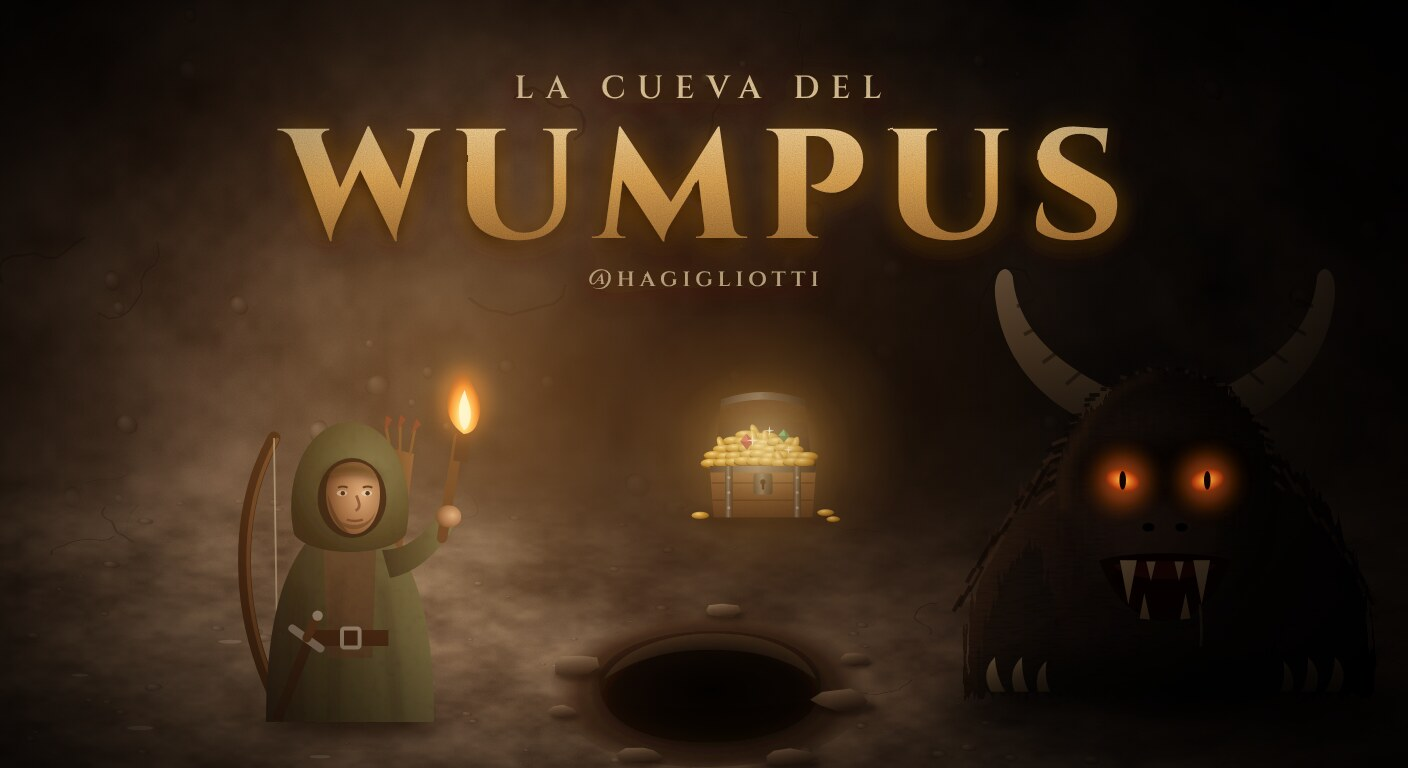
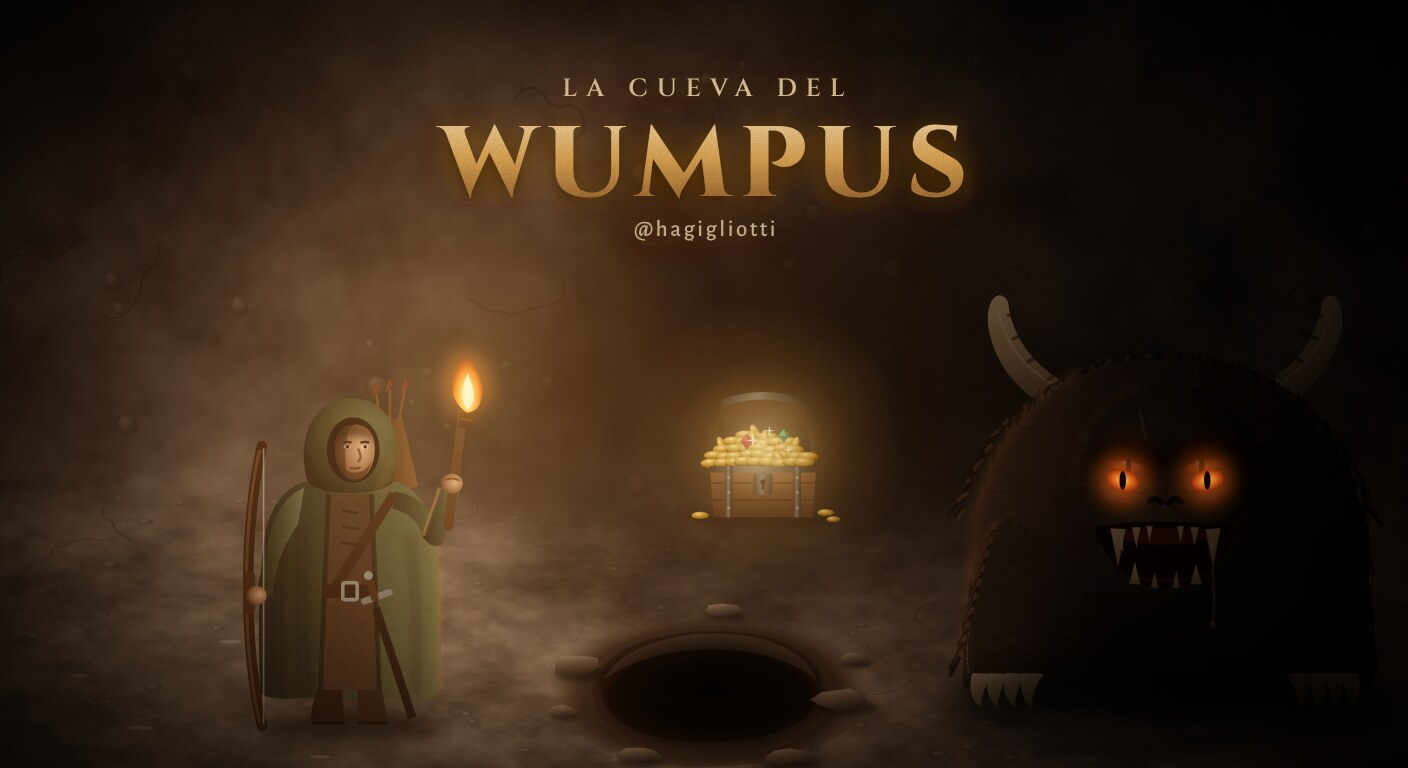
Wumpus: cazador y monstruo más realistas; título de la portada entra en el recorte
Claude-Session: https://claude.ai/code/session_019ZNvwWAP4hdR2rAgD4VUNg

diff --git a/Projects/Wumpus/index.html b/Projects/Wumpus/index.html
@@ -255,7 +255,7 @@ const ART_DEFS = `<svg id="artDefs" width="0" height="0" style="position:absolut
 <filter id="fTex" x="-5%" y="-5%" width="110%" height="110%"><feTurbulence type="fractalNoise" baseFrequency=".5" numOctaves="3" seed="4" result="n"/><feColorMatrix in="n" type="matrix" values=".33 .33 .33 0 0 .33 .33 .33 0 0 .33 .33 .33 0 0 0 0 0 0 1" result="g"/><feComponentTransfer in="g" result="g2"><feFuncR type="linear" slope=".8" intercept=".62"/><feFuncG type="linear" slope=".8" intercept=".62"/><feFuncB type="linear" slope=".8" intercept=".62"/></feComponentTransfer><feComposite in="SourceGraphic" in2="g2" operator="arithmetic" k1="1" k2="0" k3="0" k4="0"/></filter>
 <filter id="fFur" x="-10%" y="-10%" width="120%" height="120%"><feTurbulence type="turbulence" baseFrequency=".7 .09" numOctaves="2" seed="7" result="t"/><feDisplacementMap in="SourceGraphic" in2="t" scale="4" xChannelSelector="R" yChannelSelector="G" result="d"/><feTurbulence type="fractalNoise" baseFrequency=".3 1.7" numOctaves="2" seed="2" result="n"/><feColorMatrix in="n" type="matrix" values=".33 .33 .33 0 0 .33 .33 .33 0 0 .33 .33 .33 0 0 0 0 0 0 1" result="g"/><feComponentTransfer in="g" result="g2"><feFuncR type="linear" slope="1.2" intercept=".3"/><feFuncG type="linear" slope="1.2" intercept=".3"/><feFuncB type="linear" slope="1.2" intercept=".3"/></feComponentTransfer><feComposite in="d" in2="g2" operator="arithmetic" k1="1" k2="0" k3="0" k4="0"/></filter>
 <filter id="fB1" x="-50%" y="-50%" width="200%" height="200%"><feGaussianBlur stdDeviation="1"/></filter>
-<filter id="fB2" x="-50%" y="-50%" width="200%" height="200%"><feGaussianBlur stdDeviation="2.2"/></filter>
+<filter id="fB2" x="-100%" y="-100%" width="300%" height="300%"><feGaussianBlur stdDeviation="2.2"/></filter>
 <filter id="fB4" x="-60%" y="-60%" width="220%" height="220%"><feGaussianBlur stdDeviation="4.5"/></filter>
 <radialGradient id="gPitRim" cx=".5" cy=".55" r=".5"><stop offset="0" stop-color="#000"/><stop offset=".6" stop-color="#0a0705"/><stop offset=".82" stop-color="#241b14" stop-opacity=".85"/><stop offset="1" stop-color="#3a2e24" stop-opacity="0"/></radialGradient>
 <radialGradient id="gPitHole" cx=".5" cy=".62" r=".55"><stop offset="0" stop-color="#000"/><stop offset=".78" stop-color="#020101"/><stop offset="1" stop-color="#120c08"/></radialGradient>
@@ -355,22 +355,25 @@ function coinHeap(){
 }
 function furStrands(){
   const r = artRand(5); let s = '';
-  for(let i=0; i<64; i++){
-    const a = Math.PI*(1.02 + i/64*.96) + (r()-.5)*.05;
-    const ex = 50 + Math.cos(a)*23.5, ey = 53 + Math.sin(a)*27.5;
-    const len = 2.5 + r()*4, dx = Math.cos(a)*len*.6 + (r()-.5)*1.5, dy = Math.sin(a)*len*.6 + len*.5;
-    s += '<path d="M'+ex.toFixed(1)+' '+ey.toFixed(1)+' q'+(dx*.5).toFixed(1)+' '+(dy*.3).toFixed(1)+' '+dx.toFixed(1)+' '+dy.toFixed(1)+'" stroke="'+(i%3 ? '#140e0a' : '#6a503e')+'" stroke-width=".8" fill="none" opacity=".75"/>';
+  // lomo y hombros
+  for(let i=0; i<90; i++){
+    const t = i/89, a = Math.PI*(1.06 + t*.88);
+    const ex = 50 + Math.cos(a)*43.5, ey = 63 + Math.sin(a)*41;
+    const len = 2.5 + r()*4.5, dx = Math.cos(a)*len*.5 + (r()-.5)*1.6, dy = Math.sin(a)*len*.4 + len*.6;
+    s += '<path d="M'+ex.toFixed(1)+' '+ey.toFixed(1)+' q'+(dx*.5).toFixed(1)+' '+(dy*.3).toFixed(1)+' '+dx.toFixed(1)+' '+dy.toFixed(1)+'" stroke="'+(i%3 ? '#120c09' : (t<.5 ? '#5a4232' : '#2e2219'))+'" stroke-width=".8" fill="none" opacity=".8"/>';
   }
-  for(let i=0; i<46; i++){
-    const t = i/46, side = i%2 ? 1 : -1;
-    const ex = 50 + side*(24 + t*20), ey = 44 + t*30 + (r()-.5)*3;
-    const len = 3 + r()*4;
-    s += '<path d="M'+ex.toFixed(1)+' '+ey.toFixed(1)+' l'+(side*len*.5).toFixed(1)+' '+(len*.9).toFixed(1)+'" stroke="'+(i%3 ? '#120c09' : '#5a4434')+'" stroke-width=".9" opacity=".7"/>';
+  // brazos
+  for(let i=0; i<40; i++){
+    const side = i%2 ? 1 : -1, t = Math.floor(i/2)/20;
+    const ex = 50 + side*(36 + t*8) , ey = 58 + t*30;
+    const len = 3 + r()*3.5;
+    s += '<path d="M'+ex.toFixed(1)+' '+ey.toFixed(1)+' l'+(side*len*.45).toFixed(1)+' '+(len*.9).toFixed(1)+'" stroke="'+(i%4 ? '#100a08' : (side<0 ? '#5e4434' : '#241a13'))+'" stroke-width=".85" opacity=".8"/>';
   }
   return s;
 }
 const FUR = furStrands();
 const HEAP = coinHeap();
+
 
 const SVG = {
   wind: '<svg class="fx fx-wind" viewBox="0 0 100 100"><g class="gust" filter="url(#fB2)" fill="none" stroke="#e6e2d8" stroke-linecap="round"><path stroke-width="5" opacity=".2" d="M-14 30 C16 24 40 36 70 28 S100 30 116 26"/><path stroke-width="8" opacity=".15" d="M-14 53 C16 46 46 59 72 50 S104 52 116 48"/><path stroke-width="4" opacity=".22" d="M-14 75 C20 70 44 81 74 72 S100 74 116 70"/></g><g class="dust" fill="#ddd6c8"><circle cx="18" cy="34" r=".8"/><circle cx="30" cy="57" r=".6"/><circle cx="12" cy="70" r=".9"/><circle cx="40" cy="44" r=".5"/><circle cx="24" cy="82" r=".7"/><circle cx="8" cy="48" r=".6"/></g></svg>',
@@ -393,52 +396,87 @@ const SVG = {
 
 function wumpusSVG(dead){
   const eyes = dead
-    ? '<path d="M36 49 q5 2 10 0 M54 49 q5 2 10 0" stroke="#050302" stroke-width="1.4" fill="none" stroke-linecap="round"/>'
-    : '<g class="eyes"><circle cx="41" cy="49" r="7" fill="#ff6a1a" opacity=".35" filter="url(#fB2)"/><circle cx="59" cy="49" r="7" fill="#ff6a1a" opacity=".35" filter="url(#fB2)"/>'
-      + '<ellipse cx="41" cy="49" rx="3.7" ry="2.4" fill="url(#gEye)" transform="rotate(14 41 49)"/><ellipse cx="59" cy="49" rx="3.7" ry="2.4" fill="url(#gEye)" transform="rotate(-14 59 49)"/>'
-      + '<ellipse cx="41" cy="49" rx=".7" ry="2.1" fill="#140402"/><ellipse cx="59" cy="49" rx=".7" ry="2.1" fill="#140402"/><circle cx="40" cy="48.1" r=".55" fill="#fff"/><circle cx="58" cy="48.1" r=".55" fill="#fff"/></g>';
-  const horn = '<path d="M35 37 C27 34 16 26 14 11 C13 5 16 2 17.6 5.6 C18.6 17 27 24 39 30Z" fill="url(#gHorn)"/><path d="M18.5 12 l3.6 -1.4 M20 18 l3.8 -2 M24 24 l3.6 -2.6 M29 28.6 l3 -2.6" stroke="#231b12" stroke-width=".8" opacity=".55"/>';
+    ? '<path d="M37 46.6 q5 2 9.5 .4 M54 47 q4.5 1.6 9.5 -.4" stroke="#050302" stroke-width="1.4" fill="none" stroke-linecap="round"/>'
+    : '<g class="eyes"><circle cx="42" cy="46.5" r="6.5" fill="#ff6a1a" opacity=".4" filter="url(#fB2)"/><circle cx="58" cy="46.5" r="6.5" fill="#ff6a1a" opacity=".4" filter="url(#fB2)"/>'
+      + '<path d="M37.4 45.2 Q42 43.4 46.4 46.6 Q42 49 37.4 45.2Z" fill="url(#gEye)"/><path d="M62.6 45.2 Q58 43.4 53.6 46.6 Q58 49 62.6 45.2Z" fill="url(#gEye)"/>'
+      + '<ellipse cx="42.2" cy="46" rx=".6" ry="1.7" fill="#140402"/><ellipse cx="57.8" cy="46" rx=".6" ry="1.7" fill="#140402"/><circle cx="41.3" cy="45.3" r=".45" fill="#fff"/><circle cx="56.9" cy="45.3" r=".45" fill="#fff"/></g>';
+  const horn = '<path d="M34.5 37 C25 35 15 29 12.5 17 C11.4 11 14.6 7.6 16.6 11 C17.6 21 25.6 28.6 37 31.6Z" fill="url(#gHorn)"/>'
+    + '<path d="M16.4 14 l3.4 -1 M17.4 19 l3.8 -1.6 M20.4 24 l3.8 -2.2 M24.6 28 l3.4 -2.4 M29.4 31.2 l2.8 -2.4" stroke="#231b12" stroke-width=".75" opacity=".6"/>'
+    + '<path d="M14.6 12.4 C15.6 21 22 27 30 30.6" stroke="#f0e6cc" stroke-width=".6" opacity=".35" fill="none"/>';
+  const claws = (x, dir) => [0,1,2,3].map(i => { const cx = x + dir*i*3.6; return '<path d="M'+cx+' 90 q'+(dir*-1.4)+' 4.6 '+(dir*1.8)+' 7.4 q'+(dir*.2)+' -4.2 '+(dir*2.6)+' -7.2z" fill="url(#gFang)"/>'; }).join('');
   return '<svg class="obj wum'+(dead ? ' dead' : '')+'" viewBox="0 0 100 100">'
-    + '<ellipse cx="50" cy="92" rx="40" ry="6" fill="#000" opacity=".65" filter="url(#fB2)"/>'
+    + '<ellipse cx="50" cy="94" rx="44" ry="5" fill="#000" opacity=".7" filter="url(#fB2)"/>'
     + horn + '<g transform="translate(100 0) scale(-1 1)">'+horn+'</g>'
-    + '<g filter="url(#fFur)"><path d="M7 94 C5 72 13 52 28 42 C38 35 62 35 72 42 C87 52 95 72 93 94Z" fill="url(#gFurBody)"/>'
-    + '<path d="M9 94 C9 80 13 68 21 60 C26 70 26 82 28 94Z" fill="#241a13"/><path d="M91 94 C91 80 87 68 79 60 C74 70 74 82 72 94Z" fill="#120d09"/>'
-    + '<path d="M27 57 C25 38 36 25 50 25 C64 25 75 38 73 57 C71 71 61 80 50 80 C39 80 29 71 27 57Z" fill="url(#gFurHead)"/></g>'
+    + '<g filter="url(#fFur)">'
+    + '<path d="M8 72 C5 50 16 30 34 24 C42 21 58 21 66 24 C84 30 95 50 92 72 C92 82 90 91 85 93 L15 93 C10 91 8 82 8 72Z" fill="url(#gFurBody)"/>'
+    + '<path d="M15 56 C8 64 5 78 7 92 L23 92 C22 83 23 73 28 63Z" fill="#2c2018"/>'
+    + '<path d="M85 56 C92 64 95 78 93 92 L77 92 C78 83 77 73 72 63Z" fill="#110c09"/>'
+        + '<ellipse cx="50" cy="82" rx="22" ry="10" fill="#050302" opacity=".55" filter="url(#fB4)"/>'
+    + '<path d="M30 50 C29 36 38 28 50 28 C62 28 71 36 70 50 C69 62 61 72 50 73 C39 72 31 62 30 50Z" fill="url(#gFurHead)"/>'
+    + '</g>'
     + FUR
-    + '<path d="M28.5 56 C27.5 41 36 29 48 26.5" stroke="#c98a4a" stroke-width="1.6" opacity=".35" fill="none" filter="url(#fB1)"/>'
-    + '<ellipse cx="50" cy="47" rx="19" ry="7" fill="#050302" opacity=".7" filter="url(#fB2)"/>'
+    + '<path d="M9 70 C7 52 16 34 32 26" stroke="#d08a48" stroke-width="1.8" opacity=".32" fill="none" filter="url(#fB1)"/><path d="M8 90 C6 78 8 66 14 58" stroke="#d08a48" stroke-width="1.4" opacity=".28" fill="none" filter="url(#fB1)"/><path d="M31 50 C30 39 37 31 46 29" stroke="#d08a48" stroke-width="1.2" opacity=".3" fill="none" filter="url(#fB1)"/>'
+    + '<path d="M34 43 C40 39 46 41 50 44 C54 41 60 39 66 43 C62 45 56 44 50 47 C44 44 38 45 34 43Z" fill="#070403" opacity=".9" filter="url(#fB1)"/>'
+    + '<ellipse cx="50" cy="45" rx="17" ry="6" fill="#050302" opacity=".5" filter="url(#fB2)"/>'
     + eyes
-    + '<ellipse cx="50" cy="61" rx="11" ry="7.5" fill="#4a362a" opacity=".5" filter="url(#fB1)"/><ellipse cx="46.5" cy="59" rx="1.3" ry=".9" fill="#080503"/><ellipse cx="53.5" cy="59" rx="1.3" ry=".9" fill="#080503"/>'
-    + '<path d="M36 66 C42 64 58 64 64 66 C61 75 55 79 50 79 C45 79 39 75 36 66Z" fill="#170605"/><path d="M39 67 C45 66 55 66 61 67 C58 71 42 71 39 67Z" fill="#4a1410" opacity=".8"/>'
-    + '<path d="M40.4 66 L42.2 75.5 L44 66Z M56 66 L57.8 75.5 L59.6 66Z M46 66.3 L47 70.5 L48 66.3Z M52 66.3 L53 70.5 L54 66.3Z M44.6 78.4 L45.6 73 L46.8 78.6Z M53.2 78.6 L54.4 73 L55.4 78.4Z" fill="url(#gFang)"/>'
-    + '<path d="M57.4 75.4 q.6 5 .2 9" stroke="#d8d2c0" stroke-width=".6" opacity=".3" fill="none"/>'
-    + '<path d="M13 94 q-2.4 -4 .8 -7.4 q.2 4 2.2 7.4z M18 94 q-1.6 -4.4 1.6 -7.4 q-.2 4.2 1.4 7.4z M23 94 q-1 -4 1.8 -6.6 q-.6 3.8 .8 6.6z M87 94 q2.4 -4 -.8 -7.4 q-.2 4 -2.2 7.4z M82 94 q1.6 -4.4 -1.6 -7.4 q.2 4.2 -1.4 7.4z M77 94 q1 -4 -1.8 -6.6 q.6 3.8 -.8 6.6z" fill="url(#gFang)"/>'
+    + '<path d="M44.6 34 l1.4 6.6" stroke="#8a6a54" stroke-width=".6" opacity=".55"/>'
+    + '<ellipse cx="50" cy="55" rx="10" ry="6" fill="#55402f" opacity=".45" filter="url(#fB1)"/><path d="M46.6 53.4 q1.4 -1 2.6 .4 M53.4 53.4 q-1.4 -1 -2.6 .4" stroke="#070403" stroke-width="1.2" fill="none" stroke-linecap="round"/><path d="M43 51 q2 1.6 3 0 M57 51 q-2 1.6 -3 0" stroke="#1a120c" stroke-width=".5" fill="none" opacity=".7"/>'
+    + '<path d="M35 59 C41 57.4 59 57.4 65 59 C62.6 67.4 56.4 72 50 72 C43.6 72 37.4 67.4 35 59Z" fill="#160504"/>'
+    + '<path d="M38 60 C44 59 56 59 62 60 C59 63.6 41 63.6 38 60Z" fill="#5a1812" opacity=".85"/><path d="M41 69 C46 71.4 54 71.4 59 69 C55 70 45 70 41 69Z" fill="#4a1410" opacity=".8"/>'
+    + '<path d="M38.4 59.2 L40 67.6 L41.6 59.4Z M43 59 L43.9 63.4 L44.8 59Z M46 58.8 L46.7 62 L47.4 58.8Z M52.6 58.8 L53.3 62.4 L54 58.8Z M55.4 59 L56.3 63 L57.2 59Z M58.6 59.4 L60.2 67.8 L61.8 59.2Z" fill="url(#gFang)"/>'
+    + '<path d="M42.4 71 L43.6 66.4 L44.8 71.2Z M47 71.8 L47.8 68.6 L48.6 71.9Z M51.6 71.9 L52.4 68.4 L53.2 71.8Z M55.4 71.2 L56.6 66.8 L57.8 71Z" fill="url(#gFang)"/>'
+    + '<path d="M40.6 61 l.4 3" stroke="#fff" stroke-width=".35" opacity=".6"/><path d="M59.8 61 l.4 3" stroke="#fff" stroke-width=".35" opacity=".5"/>'
+    + '<path d="M60 67.6 q.8 6 .2 12" stroke="#d8d2c0" stroke-width=".55" opacity=".3" fill="none"/><circle cx="60.2" cy="79.8" r=".7" fill="#d8d2c0" opacity=".3"/>'
+    + claws(9, 1) + claws(91, -1)
     + '</svg>';
 }
 
 function hunterSVG(o){
   const lit = !o.blind;
-  const flame = '<g class="flame"><ellipse cx="78.4" cy="13" rx="6" ry="9" fill="#ff7a1a" opacity=".5" filter="url(#fB2)"/><path d="M78.4 21 C72.6 17 73.4 10 78.4 3 C79.4 9 84.4 12 81.9 18 C81.4 20 79.9 21 78.4 21Z" fill="url(#gFlame)"/><path d="M78.4 20 C76.6 17 77 13 78.7 10 C79.4 13 80.9 15 79.9 18 C79.5 19.4 79 20 78.4 20Z" fill="#fff4cc" opacity=".9"/></g>';
-  const smoke = '<g fill="#8a847a" opacity=".35" filter="url(#fB2)"><ellipse cx="78" cy="15" rx="2.4" ry="3.6"/><ellipse cx="80" cy="7" rx="3" ry="4"/></g><circle cx="78.4" cy="20.6" r=".9" fill="#ff5a1a"/>';
-  const sack = '<path d="M60 72 C56 78 57 88 64 89 C71 89 72 79 68 72 C66 70 62 70 60 72Z" fill="url(#gLeather)" filter="url(#fTex)"/><path d="M60.5 72.5 C63 74 65.5 74 67.5 72.5" stroke="#1a0f06" stroke-width="1.1" fill="none"/><ellipse cx="63" cy="71.2" rx="2.6" ry="1.1" fill="url(#gCoin)"/><ellipse cx="65.6" cy="70.4" rx="2.2" ry=".95" fill="url(#gCoin)"/>';
+  const flame = '<g class="flame"><ellipse cx="79.2" cy="8.6" rx="5.6" ry="8" fill="#ff7a1a" opacity=".5" filter="url(#fB2)"/><path d="M79.2 15.6 C73.8 12 74.6 5.6 79.2 -.6 C80.2 4.8 84.8 7.6 82.6 13 C82.1 14.8 80.6 15.6 79.2 15.6Z" fill="url(#gFlame)"/><path d="M79.2 14.8 C77.6 12 78 8.4 79.5 5.8 C80.2 8.4 81.6 10.4 80.6 13 C80.2 14.2 79.8 14.8 79.2 14.8Z" fill="#fff4cc" opacity=".9"/></g>';
+  const smoke = '<g fill="#8a847a" opacity=".35" filter="url(#fB2)"><ellipse cx="79" cy="10" rx="2.2" ry="3.4"/><ellipse cx="81" cy="3" rx="2.8" ry="3.6"/></g><circle cx="79.2" cy="15.6" r=".8" fill="#ff5a1a"/>';
+  const sack = '<path d="M55 63 C52 68 53 76 58.6 77 C64.2 77 65 69 62 63 C60.4 61.6 56.6 61.6 55 63Z" fill="url(#gLeather)" filter="url(#fTex)"/><path d="M55.4 63.4 C57.6 64.6 59.6 64.6 61.6 63.4" stroke="#1a0f06" stroke-width=".9" fill="none"/><ellipse cx="57.8" cy="62.4" rx="2.2" ry=".9" fill="url(#gCoin)"/><ellipse cx="60" cy="61.8" rx="1.9" ry=".8" fill="url(#gCoin)"/>';
   return '<svg class="obj" viewBox="0 0 100 100">'
-    + (lit && !o.nolight ? '<circle cx="76" cy="24" r="44" fill="url(#gTorchLight)" style="mix-blend-mode:screen"/>' : '')
-    + '<ellipse cx="50" cy="93" rx="21" ry="4.5" fill="#000" opacity=".6" filter="url(#fB2)"/>'
-    + '<path d="M31 22 C21 40 21 66 32 88" fill="none" stroke="#2e1c0e" stroke-width="3.2" stroke-linecap="round"/><path d="M31.8 22.4 C22 40 22 66 32.8 87.6" fill="none" stroke="#7a5230" stroke-width="1" stroke-linecap="round" opacity=".6"/><path d="M31 22 L32 88" stroke="#cfc6b0" stroke-width=".45" opacity=".6"/>'
-    + '<path d="M58 24 L66 26 L63 50 L56 48Z" fill="url(#gLeather)"/><path d="M60 25 L59 19 M62.5 25.6 L62.6 19 M65 26.4 L66.2 20" stroke="#5a3a1c" stroke-width=".7"/><path d="M58.6 20.4 l.4 -4 1.6 1 z M61.8 20.2 l.8 -4 1.4 1.2z M65.2 21 l1.4 -3.8 1.2 1.4z" fill="#5e2418"/>'
-    + '<g filter="url(#fTex)"><path d="M29 93 C29 72 32 56 40 47 L60 47 C68 56 71 72 71 93Z" fill="url(#gCloak)"/><path d="M43.5 50 L56.5 50 L55.6 77 L44.4 77Z" fill="#3e3024"/></g>'
-    + '<path d="M38 60 C36 72 36 82 37 93 M47 56 C46 70 46 82 46 93 M58 58 C60 70 61 82 62 93" stroke="#0b0d08" stroke-width="2" opacity=".35" fill="none" filter="url(#fB1)"/>'
-    + '<path d="M40.4 70 L59.6 70 L59.6 74 L40.4 74Z" fill="#24160b"/><rect x="48" y="69.6" width="4.4" height="4.8" rx=".6" fill="none" stroke="#8a8780" stroke-width="1"/>'
-    + '<path d="M38.4 72.6 L30.6 92 L33 93 L40.8 73.4Z" fill="#1c130b"/><path d="M35.6 69.6 L42.6 74.6" stroke="#77736c" stroke-width="2" stroke-linecap="round"/><path d="M39.2 72 L41.6 67.2" stroke="#3a2412" stroke-width="2.2" stroke-linecap="round"/><circle cx="41.9" cy="66.4" r="1.3" fill="#8a8780"/>'
+    + (lit && !o.nolight ? '<circle cx="78" cy="14" r="44" fill="url(#gTorchLight)" style="mix-blend-mode:screen"/>' : '')
+    + '<ellipse cx="50" cy="94.4" rx="22" ry="3.8" fill="#000" opacity=".65" filter="url(#fB2)"/>'
+    // carcaj a la espalda
+    + '<path d="M56 19 L63 16.6 L67 34 L60 36.4Z" fill="url(#gLeather)"/><path d="M57.6 18.4 L56.6 11 M60 17.6 L60 10 M62.4 17 L63.6 10" stroke="#5a3a1c" stroke-width=".6"/><path d="M55.6 12 l.6 -4 1.4 1.2z M58.8 11 l.8 -4 1.2 1.4z M62.4 11 l1.4 -3.8 1 1.6z" fill="#5e2418"/>'
+    // capa
+    + '<g filter="url(#fTex)"><path d="M38 33 C33 35 29.4 40.6 28.6 47 C27 59 27 73 27.6 86 C33 88.4 39 86.2 44 87.4 L56 87.4 C61 86.2 67 88.4 72.4 86 C73 73 73 59 71.4 47 C70.6 40.6 67 35 62 33Z" fill="url(#gCloak)"/>'
+    + '<path d="M44.6 36 L55.4 36 L57.4 85 L42.6 85Z" fill="#3a2a1c"/></g>'
+    + '<path d="M44.6 36 L42.6 85 M55.4 36 L57.4 85" stroke="#0a0b07" stroke-width="1.2" opacity=".6"/>'
+    + '<path d="M33 48 C31.4 60 31.6 74 32.6 86 M38.4 44 C37.6 58 38 72 39 86 M65 46 C66.6 60 67 74 66.4 86" stroke="#080906" stroke-width="1.8" opacity=".38" fill="none" filter="url(#fB1)"/>'
+    + '<path d="M71 46 C72.6 58 72.8 72 72.2 85.6" stroke="#d48a46" stroke-width="1.2" opacity=".35" fill="none" filter="url(#fB1)"/>'
+    + '<path d="M48 40 l4 .8 M47.8 44 l4.4 .8 M47.6 48 l4.8 .8" stroke="#1a120a" stroke-width=".6" opacity=".7"/>'
+    // correa del carcaj y cinturón
+    + '<path d="M60 35.4 L44 60.4 L46.4 61.6 L62 36.6Z" fill="#2a1a0e"/>'
+    + '<path d="M43.2 58.6 L56.8 58.6 L57 62 L43 62Z" fill="#22150a"/><rect x="48.2" y="58.2" width="3.6" height="4.2" rx=".5" fill="none" stroke="#8a8780" stroke-width=".9"/>'
+    // espada a la cadera
+    + '<path d="M57.4 64 L66.6 91.6 L64.6 92.4 L55.6 64.8Z" fill="#17100a"/><path d="M53.6 62.8 L59.8 60.6" stroke="#77736c" stroke-width="1.7" stroke-linecap="round"/><path d="M56.2 62 L54.8 57" stroke="#3a2412" stroke-width="1.9" stroke-linecap="round"/><circle cx="54.6" cy="56.4" r="1.1" fill="#8a8780"/>'
     + (o.gold ? sack : '')
-    + '<g filter="url(#fTex)"><path d="M36 46 C33 31 40 18 50 18 C60 18 67 31 64 46 C60 52 40 52 36 46Z" fill="url(#gHood)"/></g>'
-    + '<ellipse cx="50.5" cy="37" rx="8.6" ry="10" fill="#0b0906"/>'
-    + '<path d="M44 36 C44 30 47 28 51 28 C55 28 57.5 31 57.5 36 C57.5 42 54.5 46 51 46 C47.5 46 44 42 44 36Z" fill="url(#gSkin)"/>'
-    + '<path d="M42 33 C45 27 56 27 59 33 C55 30.4 46 30.4 42 33Z" fill="#0b0906" opacity=".85" filter="url(#fB1)"/>'
-    + '<ellipse cx="48" cy="35.8" rx="1.3" ry=".75" fill="#e8dccb" opacity=".55"/><ellipse cx="54.2" cy="35.8" rx="1.3" ry=".75" fill="#e8dccb" opacity=".7"/><circle cx="48.2" cy="35.8" r=".55" fill="#1a100a"/><circle cx="54.4" cy="35.8" r=".55" fill="#1a100a"/><path d="M47 34.4 q1.2 -.6 2.4 0 M53.2 34.4 q1.2 -.6 2.4 0" stroke="#2a1a10" stroke-width=".5" fill="none"/><path d="M51.6 36.4 C52.4 38.4 52.8 39.4 51.4 40.2" stroke="#6a4430" stroke-width=".7" fill="none"/><path d="M49.2 42.4 q2 .7 4 0" stroke="#5a3424" stroke-width=".6" fill="none"/><path d="M44.4 36 C44.6 41 47 45 50 46 C47 43 45.6 39.6 44.4 36Z" fill="#20140c" opacity=".55"/><path d="M45.5 40 C47 45 55 45 56.5 40 C55 46.4 47 46.4 45.5 40Z" fill="#3a2618" opacity=".6"/>'
-    + '<g filter="url(#fTex)"><path d="M58 50 C64 50 69 46 72 41 L76 44 C72 51 66 56 60 57Z" fill="url(#gCloak)"/></g>'
-    + '<path d="M73 47 L77.2 22" stroke="#432a16" stroke-width="2.6" stroke-linecap="round"/><path d="M75.8 27.6 L79.4 28.2 L80.2 21 L76.8 20.4Z" fill="#241810"/>'
-    + '<ellipse cx="74.6" cy="41.6" rx="3.2" ry="2.8" fill="url(#gSkin)"/>'
+    // botas
+    + '<path d="M42 85 L48 85 L48.6 93.6 L40.4 93.6 C40 91 40.6 88 42 85Z" fill="#1e140c"/><path d="M52 85 L58 85 L59.6 93.6 L51.6 93.6Z" fill="#2a1c10"/><path d="M40.6 93.2 L48.6 93.2 M51.8 93.2 L59.6 93.2" stroke="#000" stroke-width=".8" opacity=".6"/>'
+    // brazo izquierdo con el arco
+    + '<g filter="url(#fTex)"><path d="M38.6 34.4 C33.4 36.4 30.4 42.4 29 50 C28 54 27.2 58 26.6 60.8 L30.6 61.6 C31.2 56 32.6 49.6 37 43.6Z" fill="url(#gCloak)"/></g>'
+    + '<path d="M28 24 C23.4 44 23.4 74 28 94" fill="none" stroke="#2a190c" stroke-width="2.6" stroke-linecap="round"/><path d="M27.4 25 C23 44 23 74 27.4 93" fill="none" stroke="#7a5230" stroke-width=".8" opacity=".55"/><path d="M28.4 24.6 L28.4 93.4" stroke="#cfc6b0" stroke-width=".4" opacity=".6"/>'
+    + '<path d="M24.8 56.6 L24.8 64.6" stroke="#3a2210" stroke-width="3" stroke-linecap="round"/>'
+    + '<ellipse cx="26.6" cy="61.4" rx="2.6" ry="2.4" fill="url(#gSkin)"/>'
+    // capucha y cara
+    + '<g filter="url(#fTex)"><path d="M39.6 33.4 C36.4 24 39.6 12.6 50 12 C60.4 12 64 22.6 60.6 33.4 C56.6 36.6 43.6 36.6 39.6 33.4Z" fill="url(#gHood)"/></g>'
+    + '<ellipse cx="50.8" cy="25" rx="6.6" ry="8.2" fill="#0b0906"/>'
+    + '<path d="M46.2 24.6 C46.2 20.6 48.2 18.6 51.2 18.6 C54.2 18.6 56.2 20.8 56.2 24.6 C56.2 29.4 53.8 32.4 51.2 32.4 C48.6 32.4 46.2 29.4 46.2 24.6Z" fill="url(#gSkin)"/>'
+    + '<path d="M46.2 24.6 C46.2 20.6 48.2 18.6 51.2 18.6 C49 20 48.4 24 49.2 32.2 C47.4 31 46.2 28.4 46.2 24.6Z" fill="#1a0f08" opacity=".55"/>'
+    + '<path d="M45 22.4 C47.6 17.6 54.6 17.6 57 22.4 C54 20.4 48 20.4 45 22.4Z" fill="#0b0906" opacity=".9" filter="url(#fB1)"/>'
+    + '<path d="M48.2 23.2 q1.2 -.5 2.2 0 M52.6 23.2 q1.2 -.5 2.2 0" stroke="#1e130b" stroke-width=".55" fill="none"/>'
+    + '<ellipse cx="49.3" cy="24.2" rx=".9" ry=".5" fill="#d8ccb8" opacity=".5"/><ellipse cx="53.7" cy="24.2" rx=".9" ry=".5" fill="#e0d4c0" opacity=".7"/><circle cx="49.4" cy="24.2" r=".42" fill="#140c06"/><circle cx="53.8" cy="24.2" r=".42" fill="#140c06"/>'
+    + '<path d="M52 24.6 C52.8 26.4 53 27.4 51.8 28" stroke="#6a4430" stroke-width=".6" fill="none"/>'
+    + '<path d="M47.2 27.6 C48 31.6 50 32.8 51.2 32.8 C52.6 32.8 54.6 31.6 55.4 27.6 C54.4 30 52.6 30.6 51.2 30.6 C49.8 30.6 48 30 47.2 27.6Z" fill="#2e1c10" opacity=".7"/><path d="M49.8 29.4 q1.4 .5 2.8 0" stroke="#4a2a1a" stroke-width=".5" fill="none"/>'
+    + '<path d="M60.2 26 C60.4 30 59 33 56.6 34.6" stroke="#d48a46" stroke-width=".9" opacity=".45" fill="none" filter="url(#fB1)"/>'
+    // brazo derecho con la antorcha
+    + '<g filter="url(#fTex)"><path d="M61 35.4 C67 36 71.6 40.6 73 46.6 C71.4 48.6 69.2 48.6 68.2 46.6 C67.2 43 64.6 40.6 60.6 39.6Z" fill="url(#gCloak)"/><path d="M68.2 46.6 C70 42 71.4 38 72.8 34 L77.2 35 C76.4 39.6 74.6 44.4 73 48.6 C71.6 49.6 69.4 48.8 68.2 46.6Z" fill="url(#gCloak)"/></g>'
+    + '<path d="M72.4 34.4 C71 39 69.6 42.6 68.4 46.4" stroke="#d48a46" stroke-width=".8" opacity=".4" fill="none"/>'
+    + '<path d="M74.6 44 L78.6 12.6" stroke="#432a16" stroke-width="2.4" stroke-linecap="round"/><path d="M77.2 19.4 L80.4 19.8 L81 13.4 L77.8 13Z" fill="#241810"/><path d="M77.4 17.2 L80.6 17.6 M77.6 15.2 L80.8 15.6" stroke="#4a3220" stroke-width=".5"/>'
+    + '<ellipse cx="75.4" cy="33.4" rx="2.8" ry="2.5" fill="url(#gSkin)"/><path d="M73.4 32.6 q2 -1 4 0" stroke="#5a3a26" stroke-width=".5" fill="none"/>'
     + (lit ? flame : smoke)
     + '</svg>';
 }
